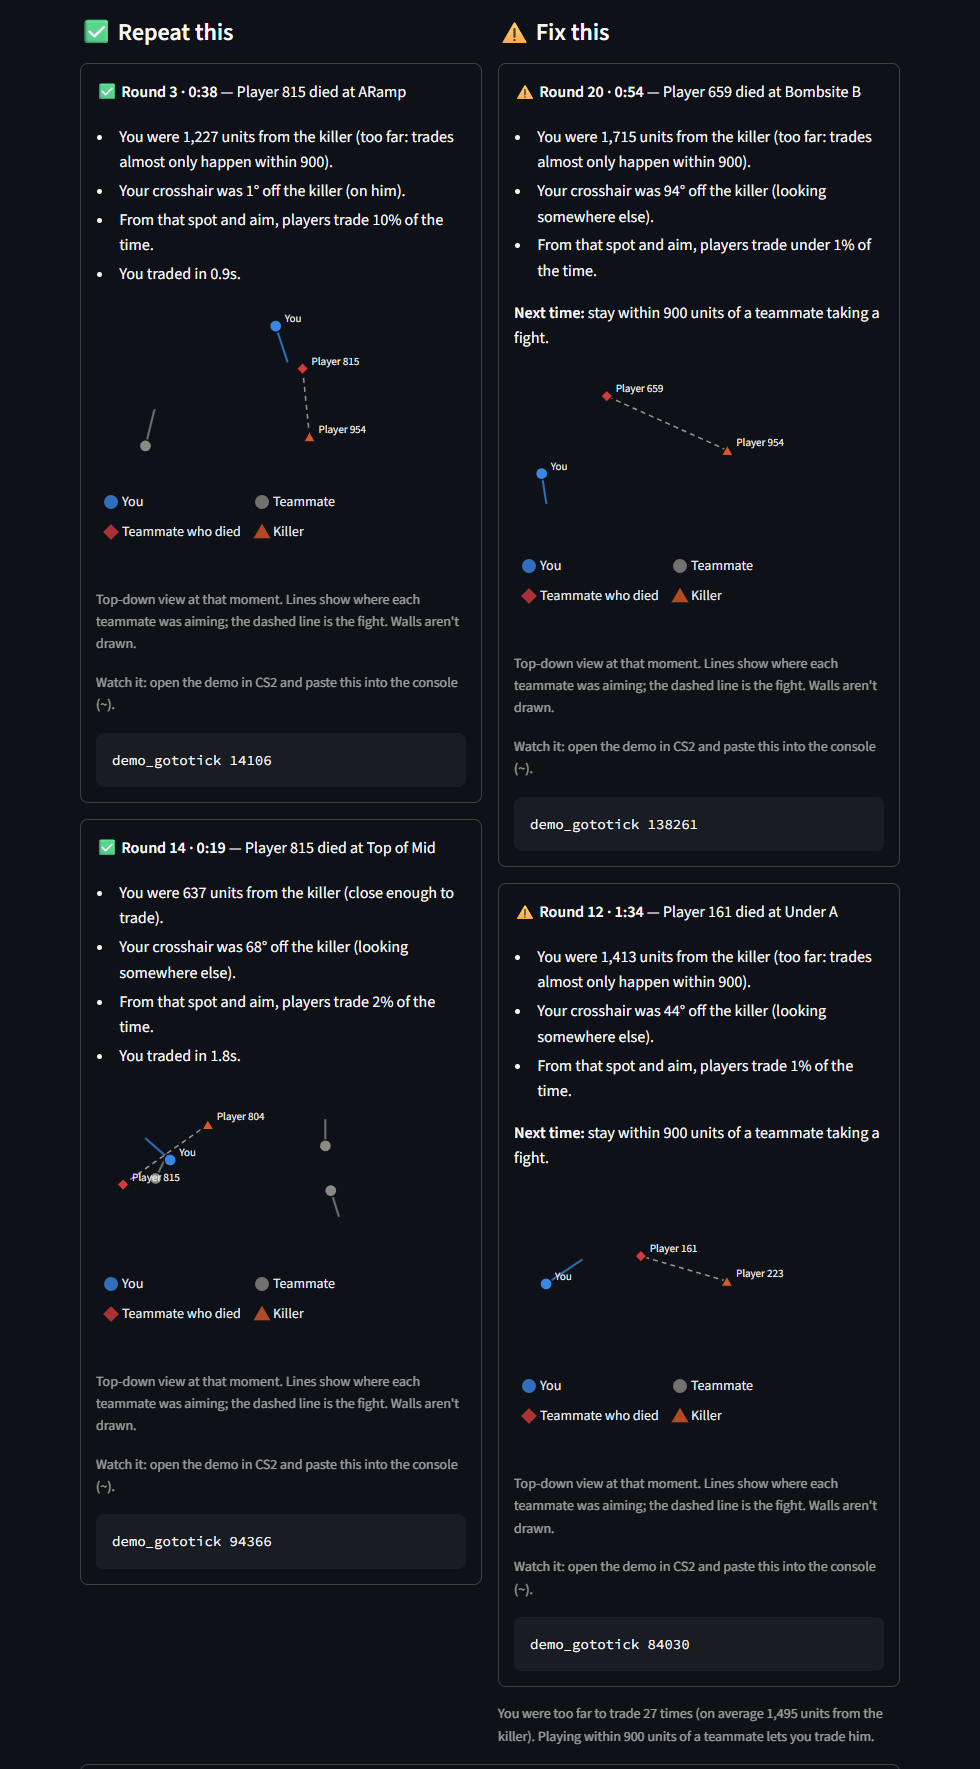
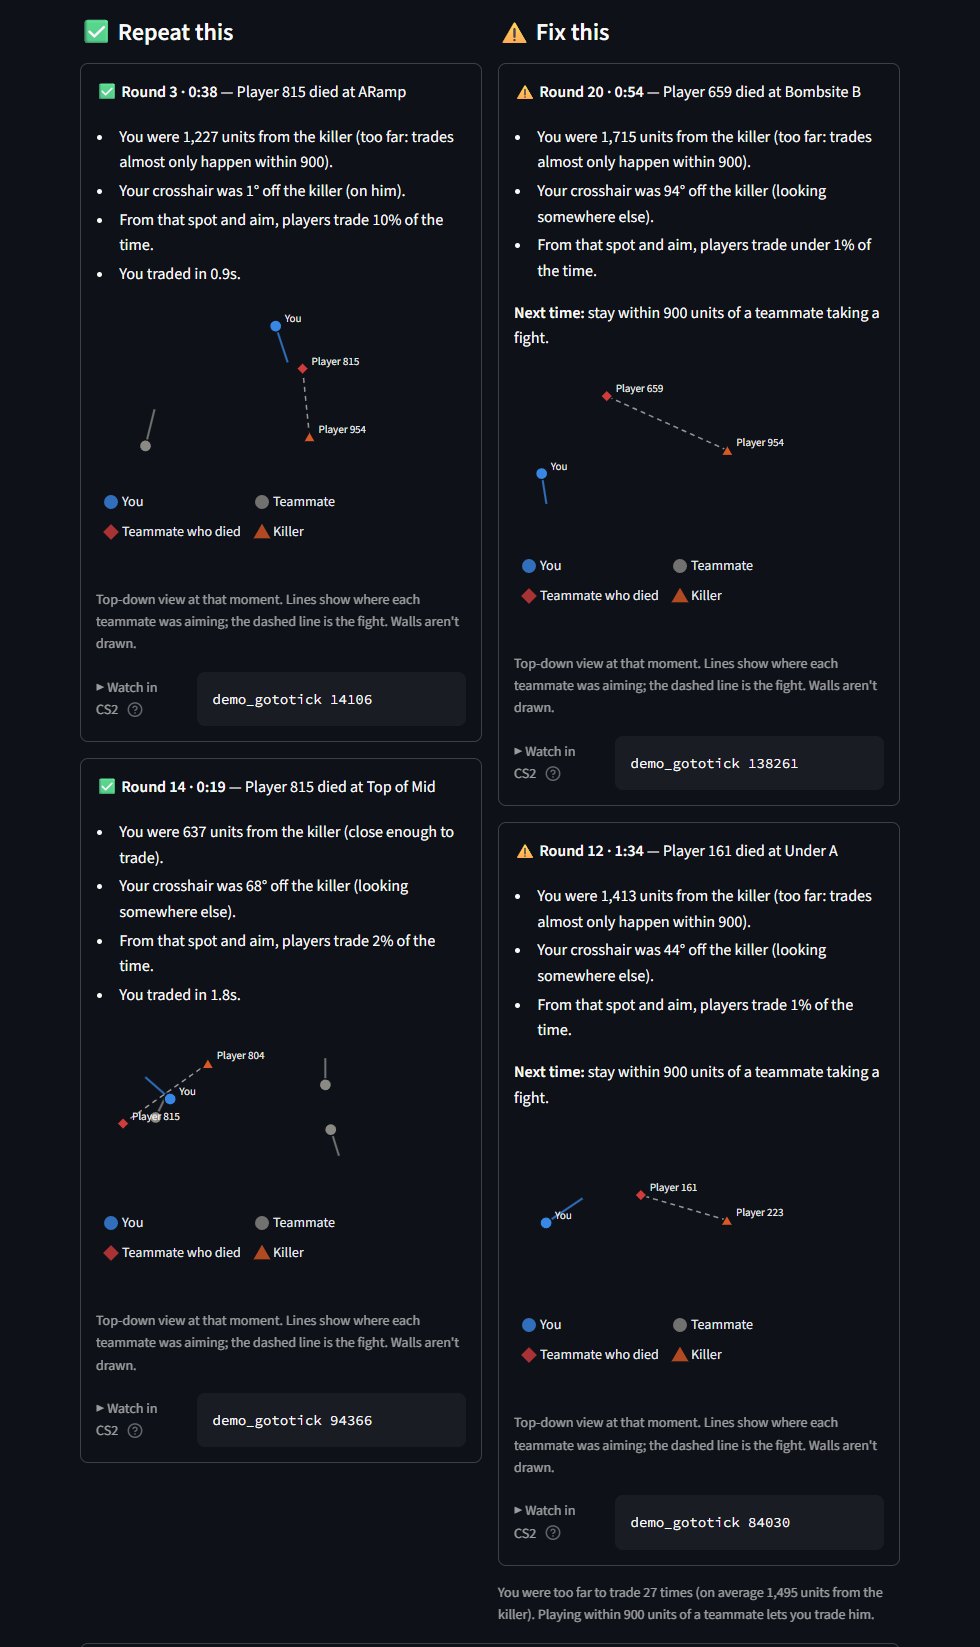
Shorten cards: one-line watch row with a copy button
The two-line "Watch it" block becomes a small label (how-to on hover)
next to the console command. README and screenshots updated.

diff --git a/app.py b/app.py
@@ -308,9 +308,14 @@ def watch_command(tick: int) -> str:
     return f"demo_gototick {max(int(tick) - WATCH_LEAD_SECONDS * TICK_RATE, 0)}"
 
 
+WATCH_HELP = "Open the demo in CS2, then paste this into the console (~) to jump to 5 seconds before the moment."
+
+
 def watch_hint(tick: int) -> None:
-    st.caption("Watch it: open the demo in CS2 and paste this into the console (~).")
-    st.code(watch_command(tick), language=None)
+    """One compact row: a label with the how-to on hover, and the command with a copy button."""
+    label, command = st.columns([1, 3], vertical_alignment="center")
+    label.caption("▶ Watch in CS2", help=WATCH_HELP)
+    command.code(watch_command(tick), language=None)
 
 
 def death_breakdown_chart(deaths: pd.DataFrame, mode: str) -> alt.Chart:

diff --git a/README.md b/README.md
@@ -39,7 +39,7 @@ Real output from real matches. Player names are replaced with stand-ins.
 
 ## Features
 - **Match report.** Pick one of your CS2 replays or upload a demo (`.dem`, or FACEIT's compressed `.dem.gz` / `.dem.zst`), then choose the player to review. Press **This is me** once and Halftime opens on you from then on. The details sit in three tabs: **Fights** (deaths, clutches & openings), **Teamplay** (coverage, utility) and **Economy** (buy calls, round by round).
-  - **Your deaths:** each one labelled *traded*, *avoidable* (re-peeked after a kill, pushed with nobody close enough to trade, died with gear in a lost round), *teammates didn't trade* or *lost a duel*, with the reasons, the cost to your team's round win chance, a moment map, and a console command to jump to it in the demo.
+  - **Your deaths:** each one labelled *traded*, *avoidable* (re-peeked after a kill, pushed with nobody close enough to trade, died with gear in a lost round), *teammates didn't trade* or *lost a duel*, with the reasons, the cost to your team's round win chance, a moment map, and a one-click-copy console command to jump to it in the demo.
   - **Coverage grade (A–F):** how often you were close enough to trade a teammate and aiming at his killer, graded against every player in the pool, with moments to repeat and to fix.
   - **Utility:** grenades thrown, enemies flashed per flash, teammates flashed, grenade damage, and deaths with unused grenades, against the match average.
   - **Clutches & openings:** a fight-or-save verdict for every 1vX, and every opening duel you were in.
